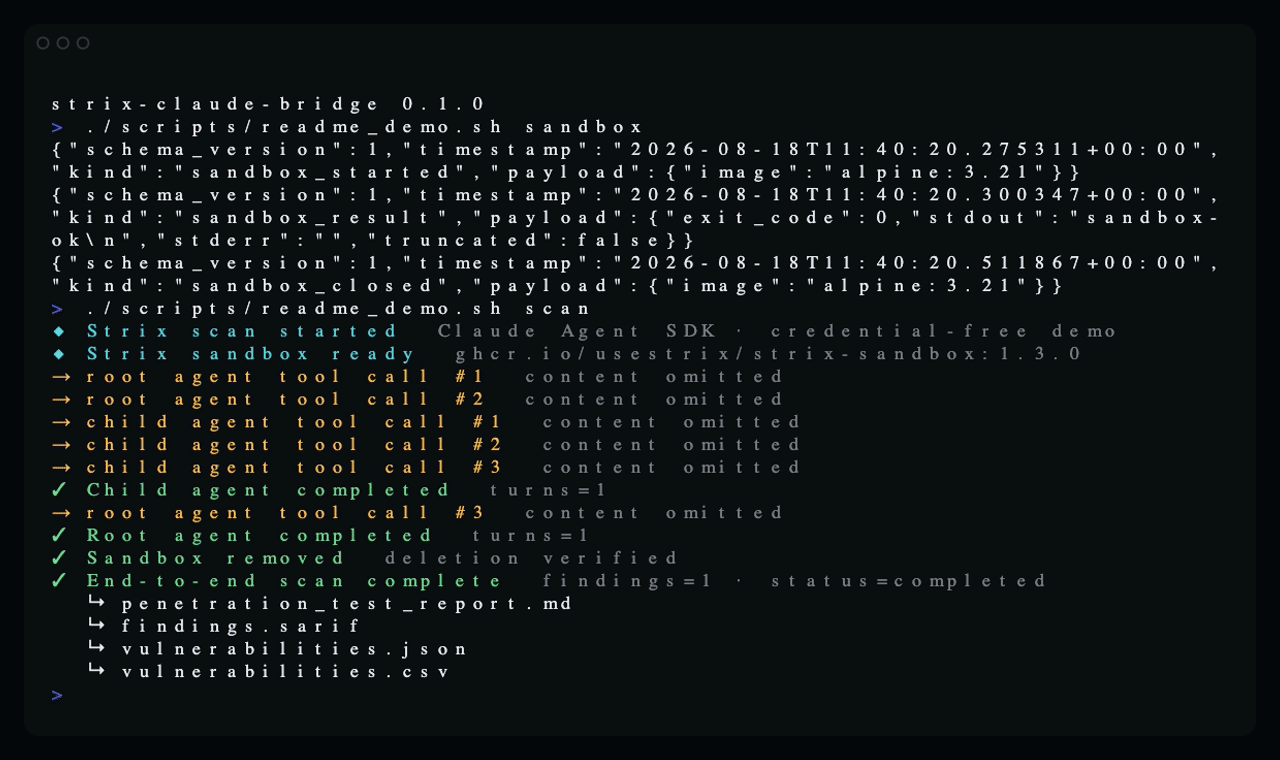
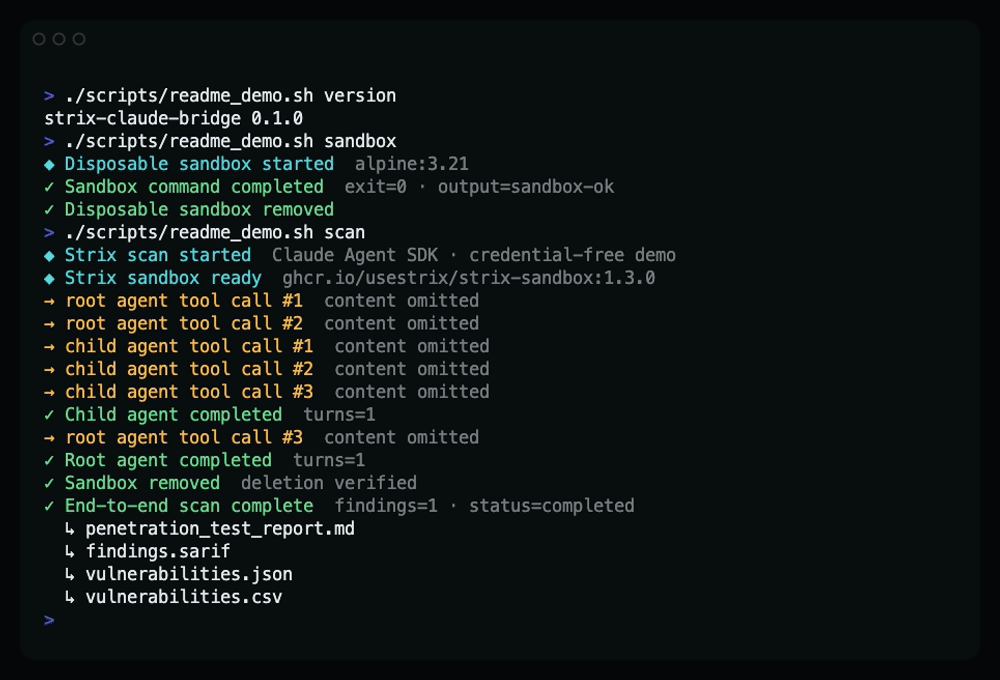
Redesign README verification media

diff --git a/scripts/readme_demo_stream.py b/scripts/readme_demo_stream.py
@@ -32,7 +32,15 @@ def render(row: dict[str, Any], call_counts: dict[str, int]) -> None:
     agent = str(row.get("agent_id") or "")
     data = payload(row)
 
-    if kind == "scan_started":
+    if kind == "sandbox_started":
+        line("◆", "Disposable sandbox started", str(data.get("image", "Docker")), color=CYAN)
+    elif kind == "sandbox_result":
+        stdout = str(data.get("stdout") or "").strip()
+        detail = f"exit={data.get('exit_code')} · output={stdout or 'empty'}"
+        line("✓", "Sandbox command completed", detail, color=GREEN)
+    elif kind == "sandbox_closed":
+        line("✓", "Disposable sandbox removed", color=GREEN)
+    elif kind == "scan_started":
         mode = "credential-free demo" if data.get("simulated_inference") else "live inference"
         line("◆", "Strix scan started", f"Claude Agent SDK · {mode}", color=CYAN)
     elif event == "sandbox_ready":

diff --git a/docs/assets/README.md b/docs/assets/README.md
@@ -1,6 +1,7 @@
 # README media
 
 - `hero.svg`: project-owned architecture/wordmark artwork.
+- `live-run-receipt.svg` / `.png`: project-owned visual receipt derived from the final live Team-backed scan's metadata-only evidence.
 - `team-status.gif` / `.png`: sanitized official `claude auth status` capture; email, organization ID, and organization name are omitted.
 - `e2e-demo.gif` / `.png`: real credential-free bridge run through Strix root/child coordination, production Strix Docker, finding/report/SARIF generation, and cleanup. Inference is scripted in this recording; a separate live Team-backed combined run is documented in [`../live-verification.md`](../live-verification.md).
 - `tapes/*.tape`: VHS sources. `e2e-demo.tape` calls `scripts/readme_demo.sh`, which copies the fixture into a temporary directory before scanning.
@@ -12,6 +13,7 @@ vhs docs/assets/tapes/team-status.tape
 vhs docs/assets/tapes/e2e-demo.tape
 ffmpeg -sseof -0.2 -i docs/assets/team-status.gif -frames:v 1 docs/assets/team-status.png -y
 ffmpeg -sseof -0.2 -i docs/assets/e2e-demo.gif -frames:v 1 docs/assets/e2e-demo.png -y
+rsvg-convert -w 1400 -h 620 docs/assets/live-run-receipt.svg -o docs/assets/live-run-receipt.png
 ```
 
 The Team-status tape requires an official local Claude login. Do not add identity fields or credential material to public assets.

diff --git a/README.md b/README.md
@@ -38,8 +38,16 @@ On 2026-08-18, the bridge completed a real Team-backed scan against the bundled 
 The live run also exposed two integration bugs—an allowed rate-status event was treated as terminal, and mailbox interruption returned `aborted_tools`. Both now have regression tests and bounded same-process recovery. Exact evidence and limits are in [Live verification](docs/live-verification.md).
 
 <p align="center">
-  <img src="docs/assets/team-status.png" alt="Sanitized official Claude authentication status showing a first-party Team subscription" width="78%">
+  <img src="docs/assets/live-run-receipt.png" alt="Live run receipt: Team-backed root and child scan completed with 19 tool calls, one finding, reports, SARIF, and verified cleanup" width="100%">
 </p>
+
+<details>
+<summary>Sanitized official Team login check</summary>
+<br>
+<p align="center">
+  <img src="docs/assets/team-status.png" alt="Official Claude authentication status showing a first-party Team subscription with identity fields omitted" width="84%">
+</p>
+</details>
 
 ## See the pipeline run
 
